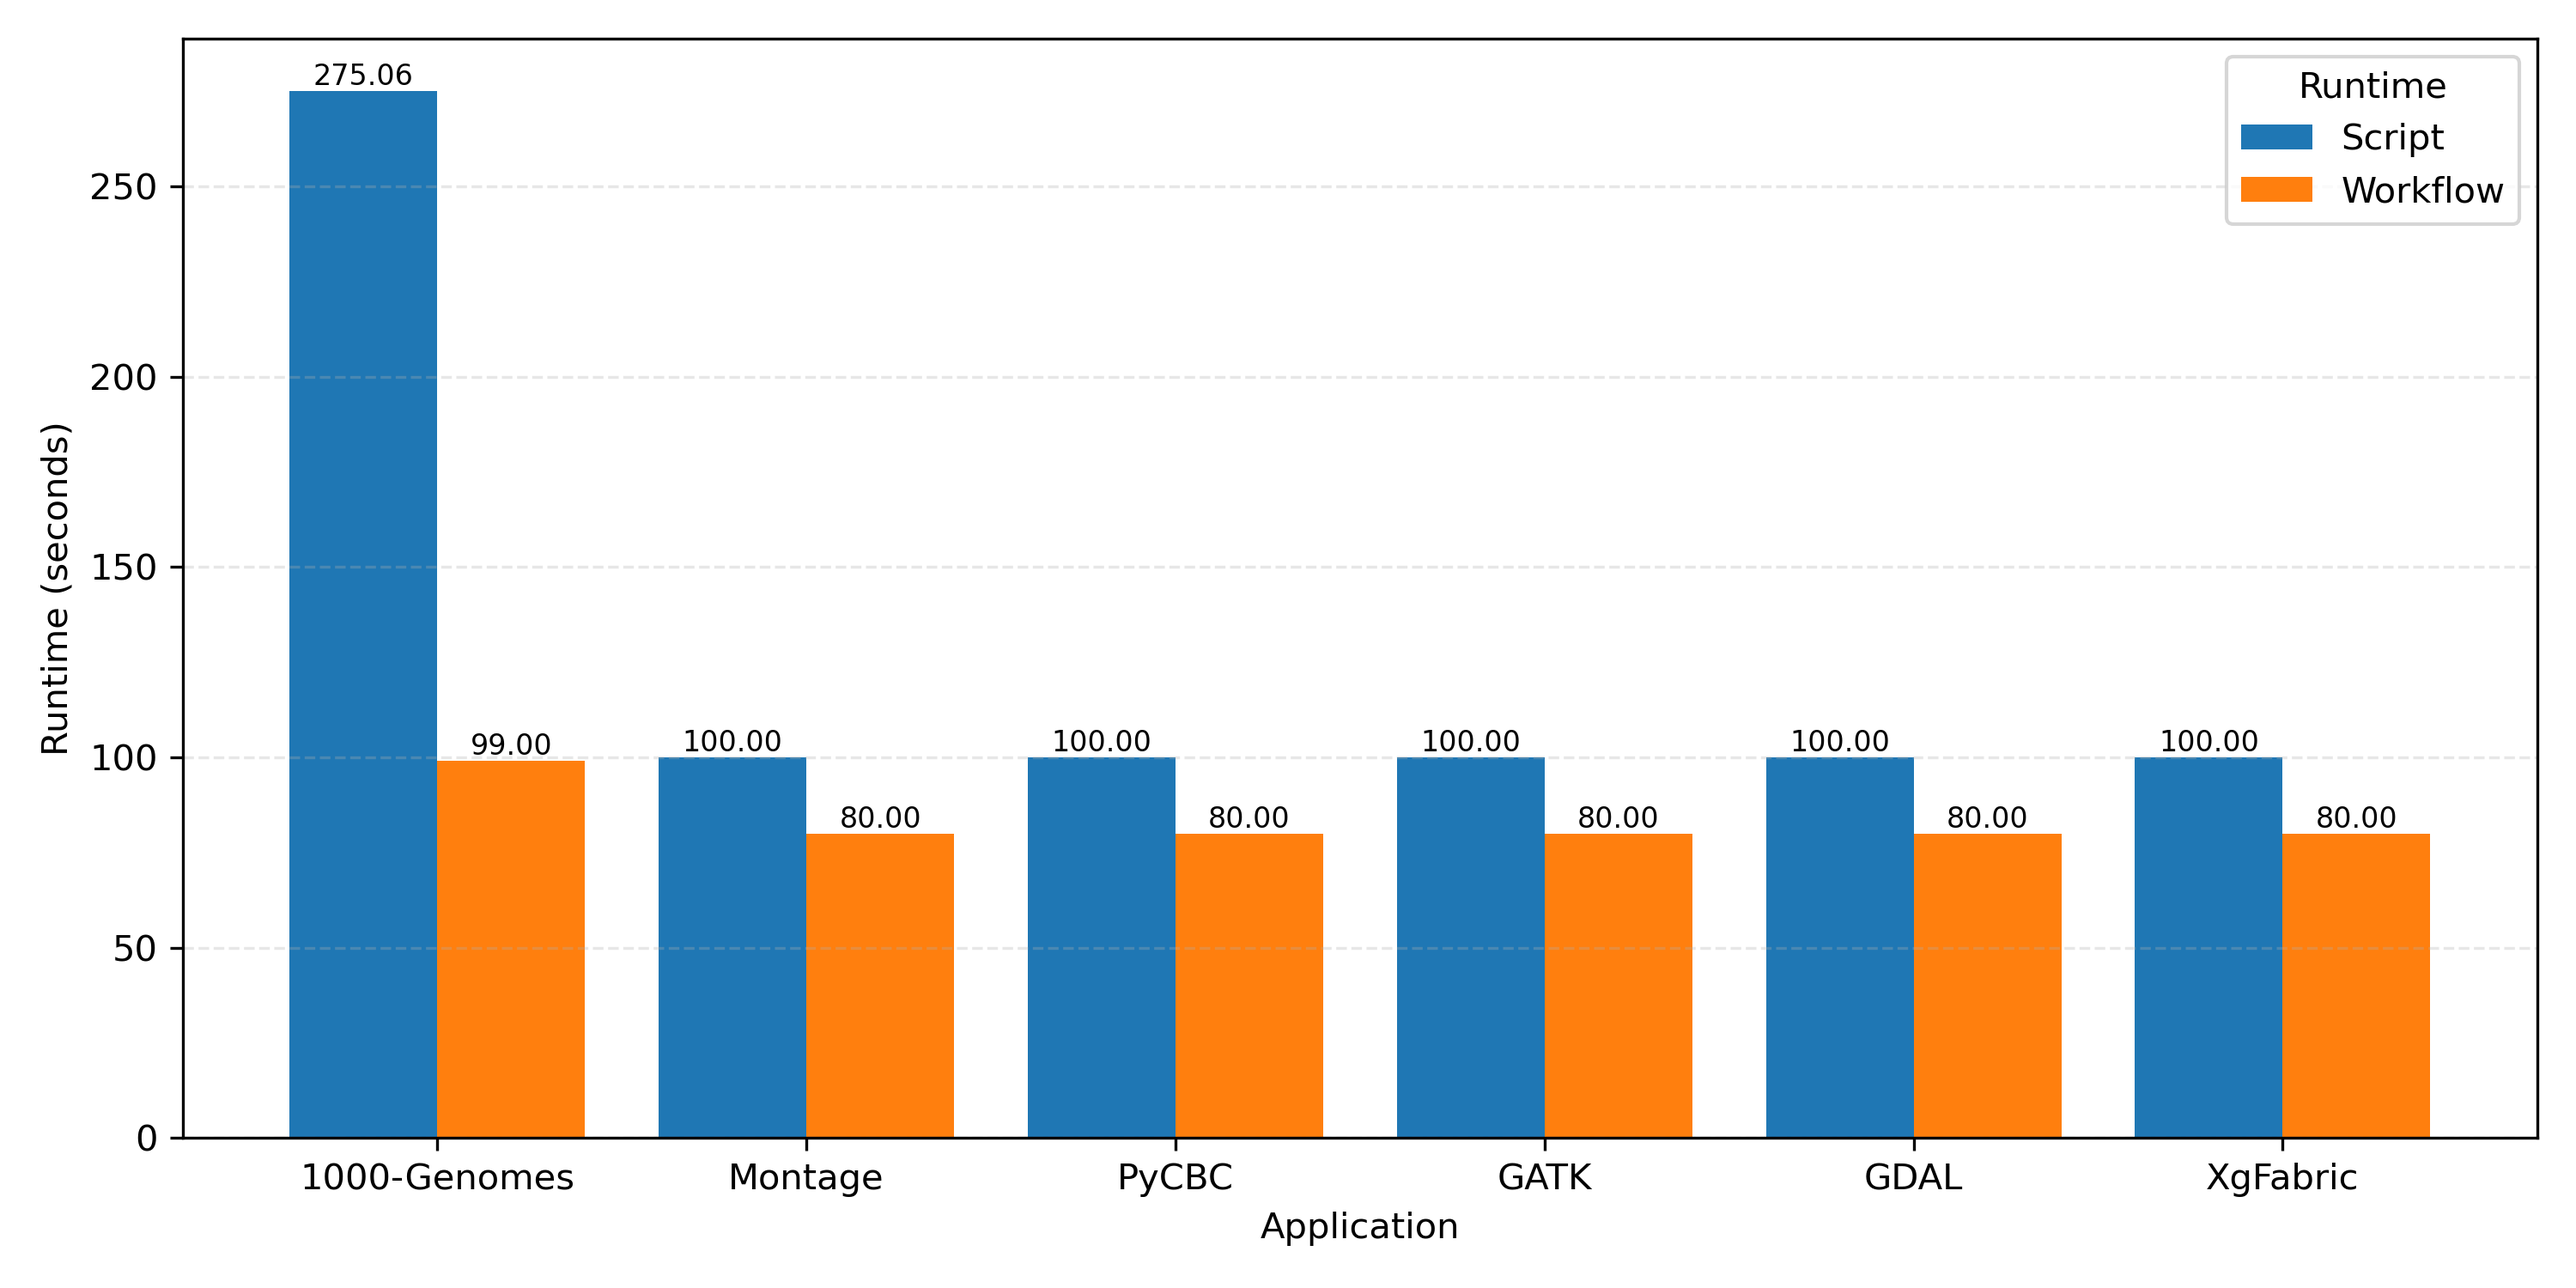
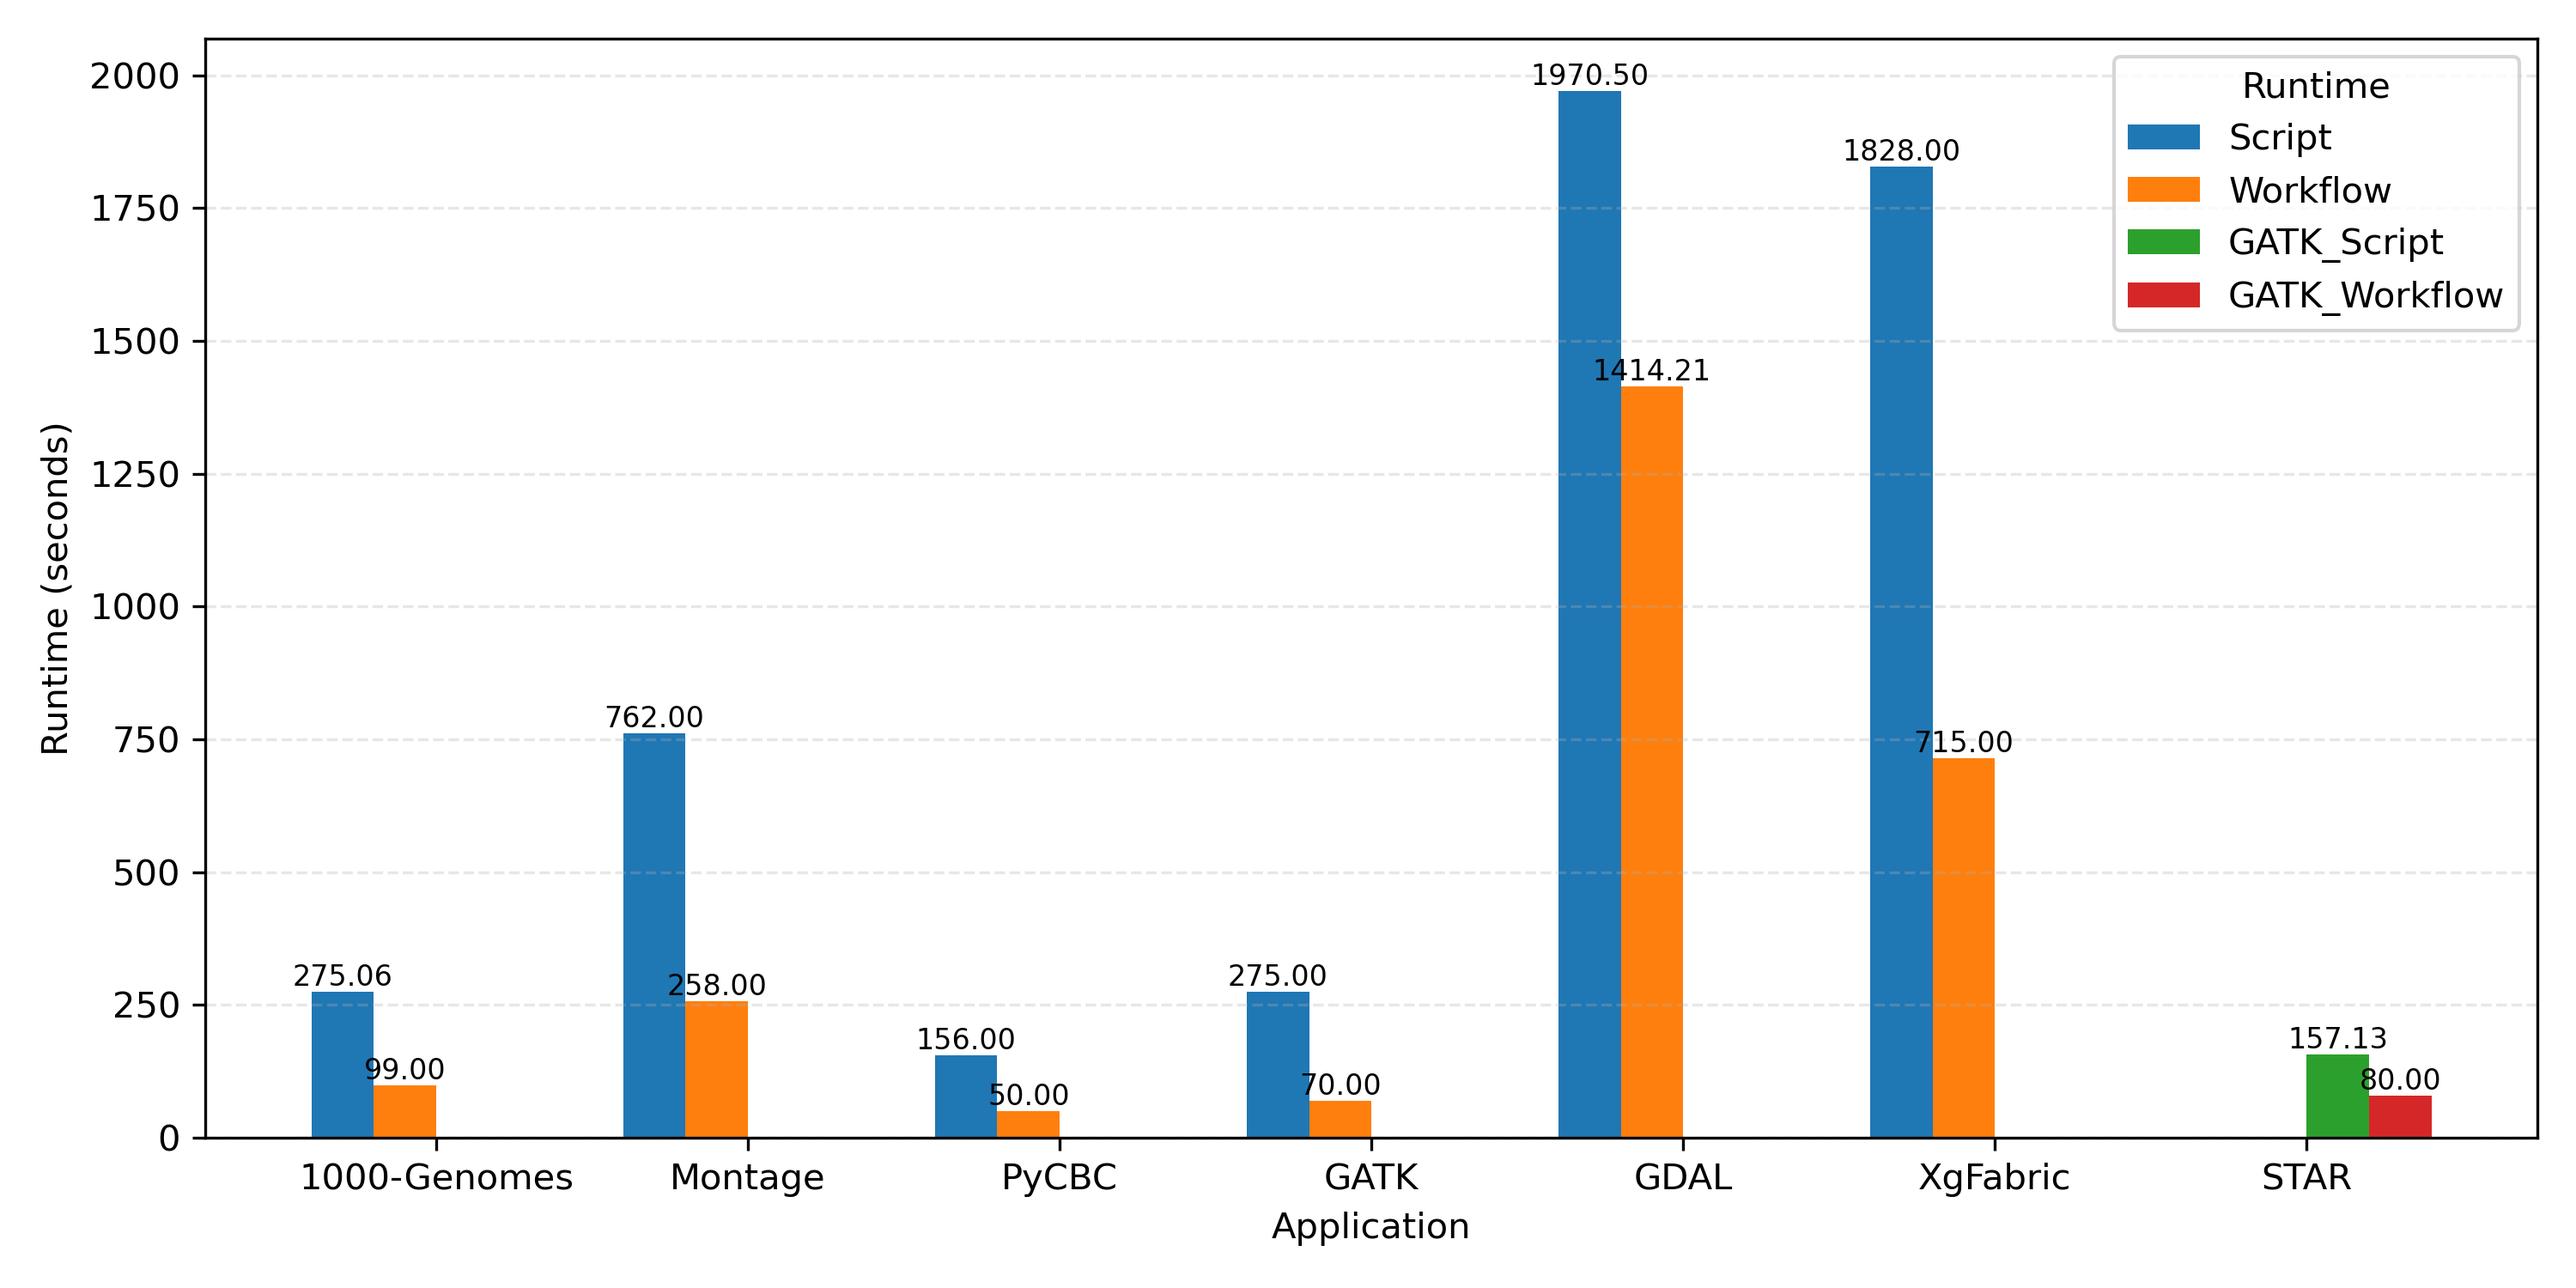
concurrency graph script

Changed region(s): [[0.031, 0.0307, 0.961, 0.9813], [0.806, 0.0613, 0.992, 0.2453], [0.837, 0.0307, 0.868, 0.0613]]

diff --git a/viz/venn.py b/viz/venn.py
@@ -1,0 +1,113 @@
+import os
+import sys
+from textwrap import wrap
+
+import matplotlib
+
+if os.environ.get("DISPLAY", "") == "" and sys.platform != "win32":
+    matplotlib.use("Agg")
+
+import matplotlib.pyplot as plt
+from matplotlib.patches import Circle
+
+
+def _format_items(items, width=18):
+    """Format set contents as wrapped text for display inside circles."""
+    items = sorted(set(items), key=str)
+    if not items:
+        return "• (empty)"
+
+    lines = []
+    for item in items:
+        wrapped = wrap(str(item), width=width)
+        if not wrapped:
+            lines.append("•")
+        else:
+            first = True
+            for part in wrapped:
+                prefix = "• " if first else "  "
+                lines.append(f"{prefix}{part}")
+                first = False
+    return "\n".join(lines)
+
+
+def create_venn_diagram(set_a, set_b, label_a="Set A", label_b="Set B"):
+    """
+    Draw a 2-circle Venn diagram with set contents rendered as text inside each circle.
+    This approach is more reliable than matplotlib-venn when the regions contain long labels.
+    """
+    set_a = set(set_a)
+    set_b = set(set_b)
+
+    fig, ax = plt.subplots(figsize=(10, 8))
+
+    left_circle = Circle((-1.2, 0), 1.7, facecolor="lightblue", edgecolor="black", linewidth=2, alpha=0.6)
+    right_circle = Circle((1.2, 0), 1.7, facecolor="lightcoral", edgecolor="black", linewidth=2, alpha=0.6)
+    ax.add_patch(left_circle)
+    ax.add_patch(right_circle)
+
+    ax.set_xlim(-3, 3)
+    ax.set_ylim(-1.8, 2.7)
+    ax.set_aspect("equal")
+    ax.axis("off")
+
+    ax.text(-1.5, 2.5, label_a, ha="center", va="center", fontsize=18, fontweight="bold")
+    ax.text(0.0, 2.15, "Potential\nConcurrency Loss", ha="center", va="center", fontsize=18, fontweight="bold")
+    ax.text(1.6, 2.5, label_b, ha="center", va="center", fontsize=18, fontweight="bold")
+
+    left_text = _format_items(set_a - set_b, width=18)
+    right_items = sorted(set(set_b - set_a), key=str)
+    right_text = _format_items(right_items, width=18)
+    overlap_text = _format_items(set_a & set_b, width=18)
+
+    ax.text(-1.5, 0.1, left_text, ha="center", va="center", fontsize=18, linespacing=2.5, fontweight="bold")
+    ax.text(1.7, 0.1, right_text, ha="center", va="center", fontsize=18, linespacing=2.4, fontweight="bold")
+
+    # Draw arrows from each right-hand item toward the diagram center.
+    # Align them with the rendered text rows in the right-hand box.
+    right_box_x = 1.5
+    line_height = 0.42
+    start_x = .6
+    end_x = .1
+    text_top = 0.1 + (len(right_items) - 1) * line_height / 2
+
+    for idx, item in enumerate(right_items):
+        if not item:
+            continue
+        y_text = text_top - idx * line_height
+        y_start = y_text #+ 0.1
+        y_end = y_text #+ 0.1
+        ax.annotate(
+            "",
+            xy=(end_x, y_end),
+            xytext=(start_x, y_start),
+            arrowprops=dict(arrowstyle="->", lw=2.5, color="black", mutation_scale=18, shrinkA=0, shrinkB=0),
+        )
+
+    # ax.text(0, -0.1, overlap_text, ha="center", va="center", fontsize=15, linespacing=2.5)
+
+    #ax.set_title("Script Compatibility", fontsize=16, fontweight="bold", pad=20)
+
+    output_path = "venn_diagram.png"
+    fig.savefig(output_path, dpi=200, bbox_inches="tight")
+
+    if os.environ.get("DISPLAY", ""):
+        plt.show()
+    else:
+        print(f"Saved diagram to {output_path}")
+
+    plt.close(fig)
+    return fig
+
+
+if __name__ == "__main__":
+    # Example usage
+    set_1 = ['Sequential or Concurrent Processes']
+    set_2 = ['Process or Thread Parallelism']
+
+    create_venn_diagram(
+        set_1,
+        set_2,
+        label_a="Compatible",
+        label_b="Incompatible",
+    )

diff --git a/viz/concurrency_expr_util.py b/viz/concurrency_expr_util.py
@@ -1,0 +1,84 @@
+
+
+import re
+import sys
+import matplotlib.pyplot as plt
+from collections import defaultdict
+
+# 2026/09/23 13:58:04.29 vine_manager[416960]vine: Task 2 state change: INITIAL (0) to READY (1)
+
+def parse_log_file(filepath):
+    """
+    Parse log file and track task state changes.
+    Returns lists for timestamps, ready counts, and running counts.
+    """
+    ready_count = 0
+    running_count = 0
+    timestamps = []
+    state = []
+    
+    patterns = ["INITIAL (0) to READY (1)", "READY (1) to RUNNING (2)", "RETRIEVED (4) to DONE (5)"]
+    
+    try:
+        with open(filepath, 'r') as f:
+            for line in f:
+                for i, pattern in enumerate(patterns):
+                    if pattern in line:
+                        parts = line.split()
+                        # 2026/09/23 13:58:04.29 vine_manager[416960]vine: Task 2 state change: INITIAL (0) to READY (1)
+                        timestamp = parts[1]
+                        #hh:mm:ss.ss
+                        timestamps.append(timestamp)
+                        event_time = timestamp
+
+                        if i == 0:
+                            ready_count += 1
+                        elif i == 1:
+                            ready_count -= 1
+                            running_count += 1
+                        elif i == 2:
+                            running_count -= 1
+
+                        state.append((ready_count, running_count))
+                        break
+                        
+    except FileNotFoundError:
+        print(f"Error: File '{filepath}' not found.")
+        sys.exit(1)
+    
+    return timestamps, [s[0] for s in state], [s[1] for s in state]
+
+def plot_concurrency(filepath):
+    """
+    Plot the available concurrency: READY and RUNNING task counts over time.
+    """
+    timestamps, ready_counts, running_counts = parse_log_file(filepath)
+    
+    if not timestamps:
+        print("No valid log entries found.")
+        return
+    
+    plt.figure(figsize=(12, 6))
+    plt.plot(range(len(timestamps)), ready_counts, label='READY Tasks', marker='o', linestyle='-', markersize=3)
+    plt.plot(range(len(timestamps)), running_counts, label='RUNNING Tasks', marker='s', linestyle='-', markersize=3)
+    
+    plt.xlabel('Event Index')
+    plt.ylabel('Task Count')
+    plt.title('Task Concurrency Over Time')
+    plt.legend()
+    plt.grid(True, alpha=0.3)
+    plt.tight_layout()
+    plt.savefig('concurrency_plot.png', dpi=100)
+    plt.show()
+    
+    print(f"Processed {len(timestamps)} state change events")
+    print(f"Final READY count: {ready_counts[-1]}")
+    print(f"Final RUNNING count: {running_counts[-1]}")
+
+if __name__ == '__main__':
+    if len(sys.argv) != 2:
+        print("Usage: python concurrency_expr_util.py <logfile>")
+        sys.exit(1)
+    
+    plot_concurrency(sys.argv[1])
+
